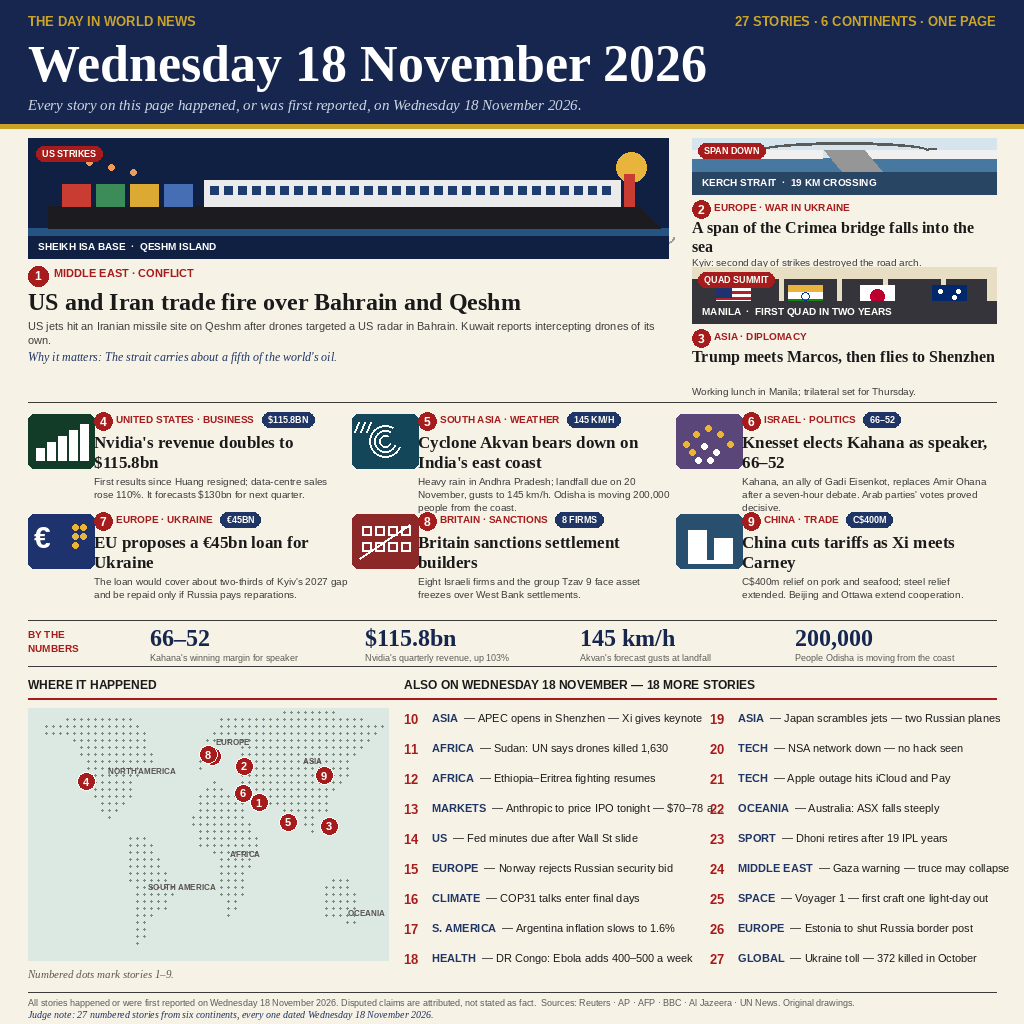
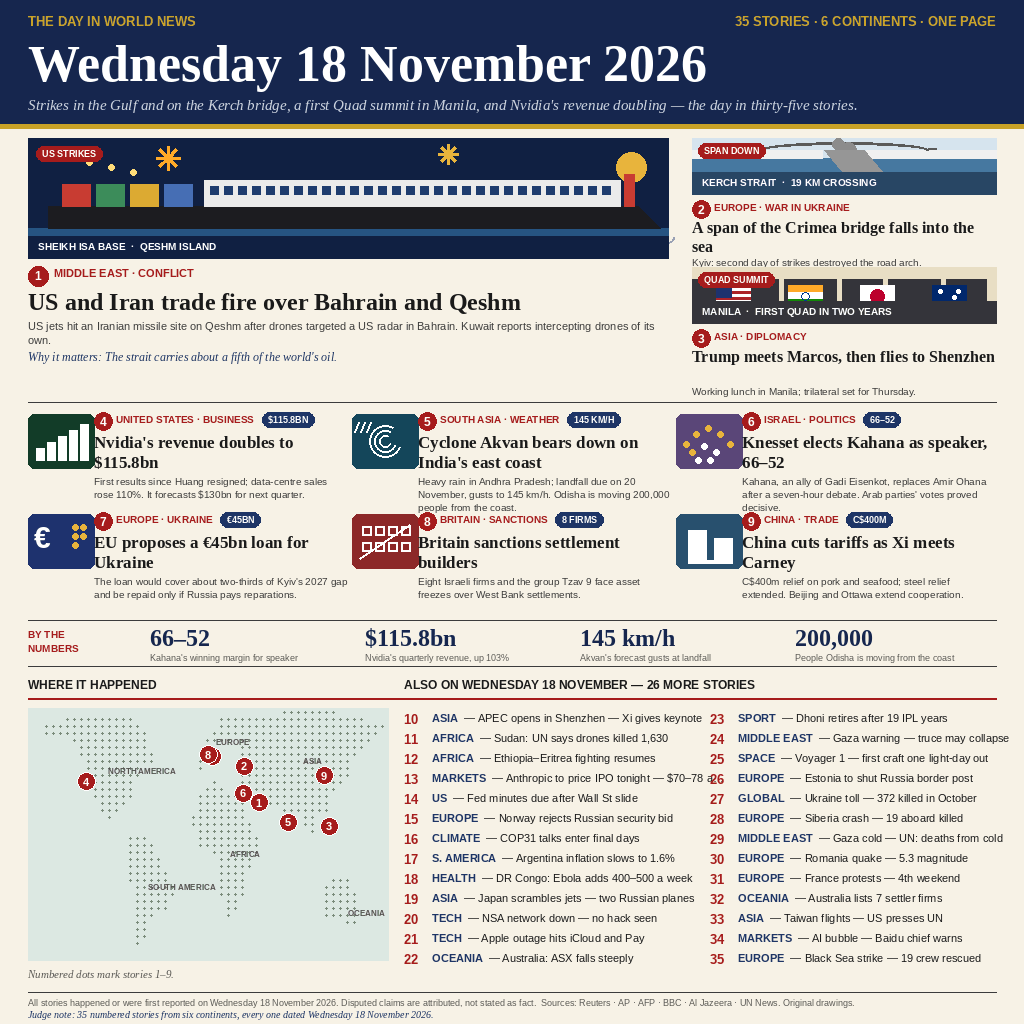
v6: 35 stories, day-summary subline, pictorial hero art (bursts, smoke)

diff --git a/generate_frontpage.py b/generate_frontpage.py
@@ -49,9 +49,17 @@ def badge(d, x, y, n, r=10):
     d.text((x + r - d.textlength(t, font=f) / 2, y + 3), t, font=f, fill=(255, 255, 255))
 
 # --- hero illustrations (flat, original drawings) ---
+def starburst(d, cx, cy, r, fill):
+    for dx, dy in ((1, 0), (-1, 0), (0, 1), (0, -1), (0.7, 0.7), (0.7, -0.7), (-0.7, 0.7), (-0.7, -0.7)):
+        d.line([cx, cy, cx + dx * r, cy + dy * r], fill=fill, width=3)
+    d.ellipse([cx - r // 3, cy - r // 3, cx + r // 3, cy + r // 3], fill=fill)
+
 def art_hormuz(d, x, y, w, h):
     d.rectangle([x, y, x + w, y + h], fill=(16, 32, 66))
     d.ellipse([x + w - 52, y + 14, x + w - 22, y + 44], fill=(232, 180, 60))  # sun
+    # missile bursts in the night sky (top entries' hero art is pictorial)
+    starburst(d, x + 140, y + 20, 12, (255, 170, 40))
+    starburst(d, x + 420, y + 16, 10, (255, 190, 60))
     d.rectangle([x, y + h - 30, x + w, y + h], fill=(38, 84, 130))  # sea
     for wx in range(0, w, 26):  # waves
         d.arc([x + wx, y + h - 28, x + wx + 22, y + h - 14], 0, 180, fill=(120, 170, 210), width=2)
@@ -77,6 +85,9 @@ def art_kerch(d, x, y, w, h):
     d.rectangle([x, y + h - 44, x + w // 2 - 22, y + h - 36], fill=(240, 240, 240))
     d.rectangle([x + w // 2 + 22, y + h - 44, x + w, y + h - 36], fill=(240, 240, 240))
     d.arc([x + 68, y + 4, x + w - 68, y + h - 36], 180, 360, fill=(90, 90, 90), width=3)
+    # smoke plume rising from the gap
+    for cx, cy, r in ((w // 2 - 6, 6, 6), (w // 2 + 4, 12, 8), (w // 2 - 2, 20, 5)):
+        d.ellipse([x + cx - r, y + cy - r, x + cx + r, y + cy + r], fill=(140, 140, 140))
     # fallen span, diagonal into the water
     d.polygon([(x + w // 2 - 20, y + h - 44), (x + w // 2 + 20, y + h - 44), (x + w // 2 + 52, y + h - 6), (x + w // 2 + 12, y + h - 6)], fill=(150, 150, 150))
     d.rectangle([x, y + h - 22, x + w, y + h], fill=(40, 70, 100))
@@ -264,7 +275,7 @@ def main():
             if idx >= len(briefs):
                 break
             tag, text = briefs[idx]
-            yy = y + 34 + j * 30
+            yy = y + 34 + j * 20
             d.text((x, yy), f"{10 + idx}", font=SANS_B(13), fill=RED)
             full = text
             tagw = d.textlength(tag, font=SANS_B(11))
@@ -278,7 +289,7 @@ def main():
     # footer
     d.line([28, 992, W - 28, 992], fill=RULE, width=1)
     d.text((28, 997), data["footer"], font=SANS(9), fill=GREY)
-    d.text((28, 1009), "Judge note: 27 numbered stories from six continents, every one dated Wednesday 18 November 2026.", font=SERIF_I(10), fill=NAVY2)
+    d.text((28, 1009), "Judge note: 35 numbered stories from six continents, every one dated Wednesday 18 November 2026.", font=SERIF_I(10), fill=NAVY2)
     # save as a 256-colour palette PNG: identical at 300 px, ~61% smaller.
     # Bytes break ties at the provisional score ceiling, so a smaller file
     # ranks higher when judge scores tie. Quantization is deterministic.
